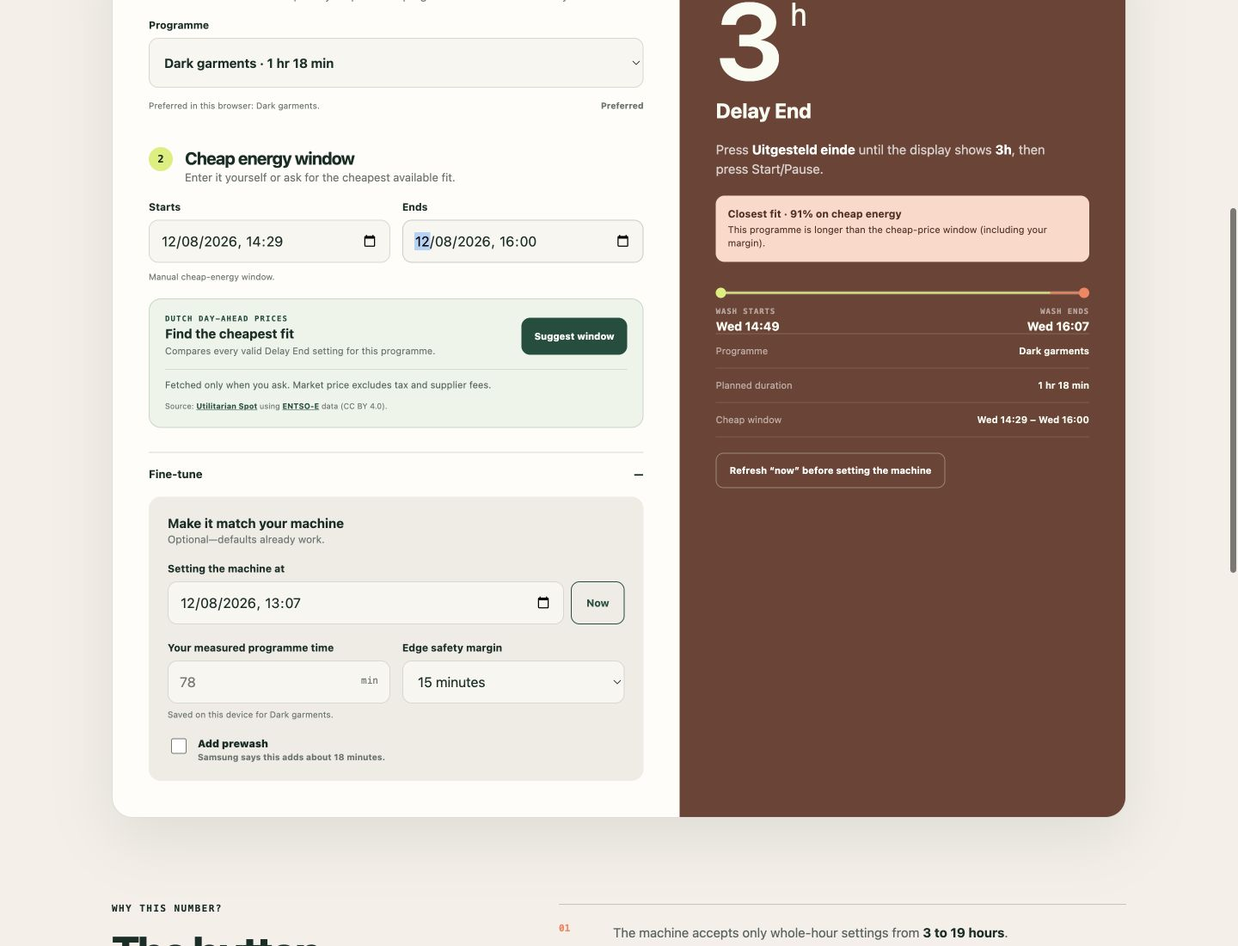
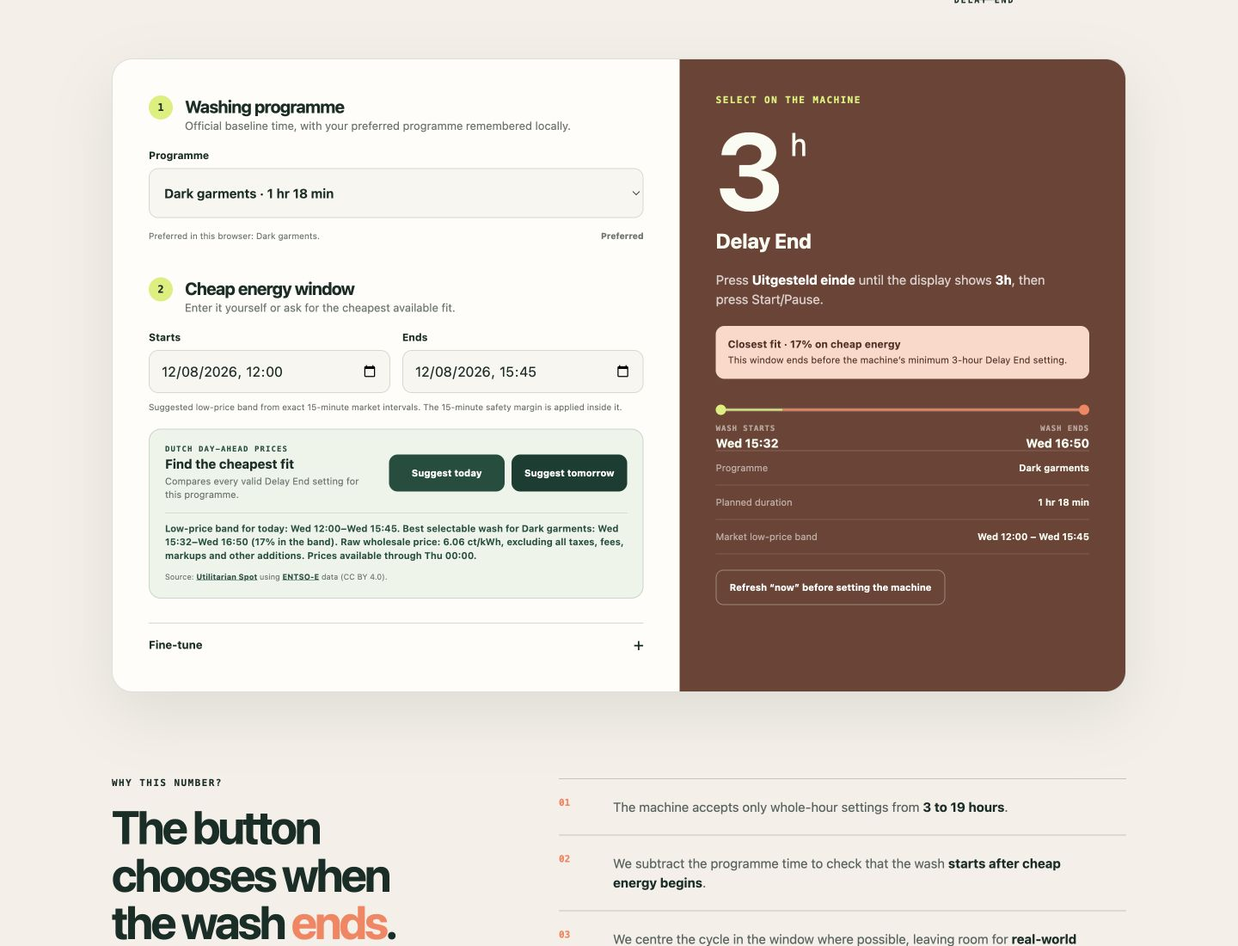
Improve day-ahead laundry suggestions

diff --git a/html/i18n.js b/html/i18n.js
@@ -4,39 +4,39 @@
   const translations = {
     en: {
       metaDescription: "Calculate the Delay End setting for a Samsung WF702Y4BKWQ/EN washing machine.",
-      homeLabel: "Laundry Window home", languageLabel: "Language", englishLabel: "English (UK)", dutchLabel: "Dutch",
+      homeLabel: "Laundry Window home", languageLabel: "Language", englishLabel: "English (UK)", dutchLabel: "Dutch", marketDayLabel: "Choose whether to optimise for today or tomorrow",
       heroEyebrow: "CHEAP-ENERGY WASH PLANNER", heroTitle: "Set the delay.<br>Skip the maths.", heroIntro: "Tell me when electricity is cheap and what you’re washing. I’ll tell you exactly what to select on <strong>Delay End</strong>.", delayEnd: "DELAY END",
       plannerLabel: "Delay End calculator", programHeading: "Washing programme", programIntro: "Official baseline time, with your preferred programme remembered locally.", programLabel: "Programme",
-      windowHeading: "Cheap energy window", windowIntro: "Enter it yourself or ask for the cheapest available fit.", starts: "Starts", ends: "Ends", manualWindow: "Manual cheap-energy window.", marketEnvelope: "Planning envelope: recommended wash plus {margin} minutes of safety margin on each side. Prices are evaluated in exact 15-minute market intervals.",
-      marketEyebrow: "DUTCH DAY-AHEAD PRICES", marketHeading: "Find the cheapest fit", marketIntro: "Compares every valid Delay End setting for this programme.", suggest: "Suggest window", checking: "Checking prices…", marketDefault: "Fetched only when you ask. Market price excludes tax and supplier fees.", marketSource: "Source: <a href=\"https://spot.utilitarian.io/developer/\" rel=\"noreferrer\">Utilitarian Spot</a> using <a href=\"https://transparency.entsoe.eu/\" rel=\"noreferrer\">ENTSO-E</a> data (CC BY 4.0).",
+      windowHeading: "Cheap energy window", windowIntro: "Enter it yourself or ask for the cheapest available fit.", starts: "Starts", ends: "Ends", manualWindow: "Manual cheap-energy window.", marketWindow: "Suggested low-price band from exact 15-minute market intervals. The {margin}-minute safety margin is applied inside it.",
+      marketEyebrow: "DUTCH DAY-AHEAD PRICES", marketHeading: "Find the cheapest fit", marketIntro: "Compares every valid Delay End setting for this programme.", suggestToday: "Suggest today", suggestTomorrow: "Suggest tomorrow", checking: "Checking…", marketDefault: "The shown price is the raw wholesale market price, excluding all taxes, fees, supplier markups and other additions. Fetched only when you ask.", marketSource: "Source: <a href=\"https://spot.utilitarian.io/developer/\" rel=\"noreferrer\">Utilitarian Spot</a> using <a href=\"https://transparency.entsoe.eu/\" rel=\"noreferrer\">ENTSO-E</a> data (CC BY 4.0).",
       fineTune: "Fine-tune", tuneHeading: "Make it match your machine", tuneIntro: "Optional—defaults already work.", settingAt: "Setting the machine at", now: "Now", measured: "Your measured programme time", savedDevice: "Saved on this device.", margin: "Edge safety margin", noMargin: "No margin", minutes: "{count} minutes", addPrewash: "Add prewash", prewashNote: "Samsung says this adds about 18 minutes.",
       selectMachine: "SELECT ON THE MACHINE", readyHeading: "Ready when you are", readyText: "Choose a valid window to see the Delay End setting.",
       whyEyebrow: "WHY THIS NUMBER?", whyTitle: "The button chooses when the wash <em>ends</em>.", why1: "The machine accepts only whole-hour settings from <strong>3 to 19 hours</strong>.", why2: "We subtract the programme time to check that the wash <strong>starts after cheap energy begins</strong>.", why3: "We centre the cycle in the window where possible, leaving room for <strong>real-world timing drift</strong>.",
       reference: "Official programme-time reference", manualPage: "Samsung manual · page 37", referenceText: "Quick wash can be selected at 15, 20, 30, 40, 50 or 60 minutes. Actual times can vary with water pressure and temperature, load, fabric and selected options. Intensive wash extends every cycle; use the measured-time field when you use it. <a class=\"source-link\" href=\"https://www.samsung.com/nl/support/model.WF702Y4BKWQ_EN/\" rel=\"noreferrer\">Official Samsung support page</a>.",
-      compatibility: "COMPATIBILITY", compatibilityTitle: "Built for one Samsung family.<br><em>More machines later.</em>", compatibilityIntro: "The timings and Delay End rules currently come from one shared Samsung manual. No other brand is assumed compatible yet.", verified: "PHYSICALLY VERIFIED", exactMachine: "The exact machine used to create and check this calculator.", sameManual: "SAME SAMSUNG MANUAL", familyText: "Y4BK and B4BK families are covered by the same official programme table. Regional suffixes may differ.", future: "FUTURE", otherModels: "Other brands &amp; models", futureText: "The programme data is isolated in the app, ready for model selection and additional verified manuals later.", footerText: "Made for one very specific Samsung—and one less piece of mental arithmetic.",
+      compatibility: "COMPATIBILITY", compatibilityTitle: "Built for one Samsung family.<br><em>More machines later.</em>", compatibilityIntro: "The timings and Delay End rules currently come from one shared Samsung manual. No other brand is assumed compatible yet.", verified: "PHYSICALLY VERIFIED", exactMachine: "The exact machine used to create and check this calculator.", sameManual: "SAME SAMSUNG MANUAL", familyText: "Y4BK and B4BK families are covered by the same official programme table. Regional suffixes may differ.", future: "FUTURE", otherModels: "Other brands &amp; models", futureText: "The programme data is isolated in the app, ready for model selection and additional verified manuals later.", footerText: "Made for one very specific Samsung—and one less piece of mental arithmetic.", githubRepo: "View source on GitHub",
       dialGroup: "Dial programmes", quickGroup: "Quick wash button", cotton: "Cotton", synthetics: "Synthetics", jeans: "Jeans", bedding: "Bedding", dark: "Dark garments", daily: "Daily wash", drum: "Eco drum clean", baby: "Baby care", sports: "Outdoor care", hand: "Hand wash", wool: "Wool", quick: "Quick wash · {minutes} min",
       durationMin: "{minutes} min", durationHour: "{hours} hr", durationHoursMinutes: "{hours} hr {minutes} min", savedFor: "Saved on this device for {program}.", preferredInBrowser: "Preferred in this browser: {program}.", preferred: "Preferred", makePreferred: "Make selected preferred",
-      settingsChanged: "The settings changed. Ask again to recalculate the cheapest fit.", invalidPlanning: "Choose a valid machine-setting time first.", fetching: "Fetching the latest published Dutch day-ahead prices…", noMarketFit: "No complete wash fits the currently published prices and the machine’s 3–19 hour range. If tomorrow is not available yet, try again after 13:00.", marketSuccess: "Best published fit for {program}: {start}–{end}, averaging {price} ct/kWh. Prices available through {available}.", marketError: "Live prices could not be loaded. Manual window entry still works; please try the suggestion again later.",
+      settingsChanged: "The settings changed. Ask again to recalculate the cheapest fit.", invalidPlanning: "Choose a valid machine-setting time first.", fetching: "Fetching the latest published Dutch day-ahead prices…", noDayFit: "No complete wash fits {day} within the published prices and the machine’s 3–19 hour range.", tomorrowUnavailable: "Tomorrow’s prices are not available yet. Try again after publication, usually around 13:00.", marketSuccess: "Low-price band for {day}: {lowStart}–{lowEnd}. Best selectable wash for {program}: {start}–{end} ({percent}% in the band). Raw wholesale price: {price} ct/kWh, excluding all taxes, fees, markups and other additions. Prices available through {available}.", marketError: "Live prices could not be loaded. Manual window entry still works; please try the suggestion again later.", today: "today", tomorrow: "tomorrow",
       invalidDate: "Choose a valid date and time.", invalidWindow: "The cheap-price end must be after its start.", noWholeFit: "No whole-hour Delay End setting keeps this complete cycle inside the window.", tooLong: "This programme is longer than the cheap-price window (including your margin).", tooEarly: "This window ends before the machine’s minimum 3-hour Delay End setting.", tooLate: "This window starts beyond the machine’s 19-hour Delay End limit.", safetyMessage: "The complete wash fits inside the displayed window, but the requested {margin}-minute safety margin is short by {used} minutes.", safetyTitle: "Fits window · safety margin short by {shortfall} min", closestTitle: "Closest fit · {percent}% on cheap energy",
-      checkWindow: "Check the window", instruction: "Press <strong>Uitgesteld einde</strong> until the display shows <strong id=\"delay-inline\"></strong>, then press Start/Pause.", expectedTiming: "Expected wash timing", washStarts: "WASH STARTS", washEnds: "WASH ENDS", plannedDuration: "Planned duration", windowSummary: "Cheap window", envelopeSummary: "Planning envelope", refresh: "Refresh “now” before setting the machine"
+      checkWindow: "Check the window", instruction: "Press <strong>Uitgesteld einde</strong> until the display shows <strong id=\"delay-inline\"></strong>, then press Start/Pause.", expectedTiming: "Expected wash timing", washStarts: "WASH STARTS", washEnds: "WASH ENDS", plannedDuration: "Planned duration", windowSummary: "Cheap window", marketBandSummary: "Market low-price band", refresh: "Refresh “now” before setting the machine"
     },
     nl: {
       metaDescription: "Bereken de instelling Uitgesteld einde voor een Samsung WF702Y4BKWQ/EN-wasmachine.",
-      homeLabel: "Laundry Window startpagina", languageLabel: "Taal", englishLabel: "Engels (VK)", dutchLabel: "Nederlands",
+      homeLabel: "Laundry Window startpagina", languageLabel: "Taal", englishLabel: "Engels (VK)", dutchLabel: "Nederlands", marketDayLabel: "Kies of je voor vandaag of morgen wilt optimaliseren",
       heroEyebrow: "WASPLANNER VOOR GOEDKOPE STROOM", heroTitle: "Stel de tijd in.<br>Sla het rekenen over.", heroIntro: "Vertel wanneer stroom goedkoop is en welk programma je gebruikt. Ik vertel precies wat je bij <strong>Uitgesteld einde</strong> moet instellen.", delayEnd: "UITGESTELD EINDE",
       plannerLabel: "Calculator voor Uitgesteld einde", programHeading: "Wasprogramma", programIntro: "Officiële basistijd, met je voorkeursprogramma lokaal onthouden.", programLabel: "Programma",
-      windowHeading: "Goedkope-stroomvenster", windowIntro: "Vul het zelf in of laat het goedkoopste passende moment zoeken.", starts: "Begint", ends: "Eindigt", manualWindow: "Handmatig goedkoop stroomvenster.", marketEnvelope: "Planningsmarge: aanbevolen was plus {margin} minuten veiligheidsmarge aan beide kanten. Prijzen worden per exact marktkwartier berekend.",
-      marketEyebrow: "NEDERLANDSE DAY-AHEADPRIJZEN", marketHeading: "Vind het goedkoopste moment", marketIntro: "Vergelijkt elke geldige instelling voor Uitgesteld einde voor dit programma.", suggest: "Stel venster voor", checking: "Prijzen controleren…", marketDefault: "Alleen opgehaald wanneer je erom vraagt. Marktprijs is exclusief belasting en leverancierskosten.", marketSource: "Bron: <a href=\"https://spot.utilitarian.io/developer/\" rel=\"noreferrer\">Utilitarian Spot</a> met gegevens van <a href=\"https://transparency.entsoe.eu/\" rel=\"noreferrer\">ENTSO-E</a> (CC BY 4.0).",
+      windowHeading: "Goedkope-stroomvenster", windowIntro: "Vul het zelf in of laat het goedkoopste passende moment zoeken.", starts: "Begint", ends: "Eindigt", manualWindow: "Handmatig goedkoop stroomvenster.", marketWindow: "Voorgestelde lage-prijsperiode uit exacte marktkwartieren. De veiligheidsmarge van {margin} minuten wordt daarbinnen toegepast.",
+      marketEyebrow: "NEDERLANDSE DAY-AHEADPRIJZEN", marketHeading: "Vind het goedkoopste moment", marketIntro: "Vergelijkt elke geldige instelling voor Uitgesteld einde voor dit programma.", suggestToday: "Vandaag voorstellen", suggestTomorrow: "Morgen voorstellen", checking: "Controleren…", marketDefault: "De getoonde prijs is de kale beursprijs, exclusief alle belastingen, kosten, leveranciersopslagen en andere toevoegingen. Alleen opgehaald wanneer je erom vraagt.", marketSource: "Bron: <a href=\"https://spot.utilitarian.io/developer/\" rel=\"noreferrer\">Utilitarian Spot</a> met gegevens van <a href=\"https://transparency.entsoe.eu/\" rel=\"noreferrer\">ENTSO-E</a> (CC BY 4.0).",
       fineTune: "Fijn afstellen", tuneHeading: "Pas het aan jouw machine aan", tuneIntro: "Optioneel—de standaardwaarden werken al.", settingAt: "Machine instellen om", now: "Nu", measured: "Jouw gemeten programmaduur", savedDevice: "Op dit apparaat opgeslagen.", margin: "Veiligheidsmarge aan de rand", noMargin: "Geen marge", minutes: "{count} minuten", addPrewash: "Voorwas toevoegen", prewashNote: "Volgens Samsung duurt dit ongeveer 18 minuten extra.",
       selectMachine: "KIES OP DE MACHINE", readyHeading: "Klaar wanneer jij dat bent", readyText: "Kies een geldig venster om de instelling te zien.",
       whyEyebrow: "WAAROM DIT GETAL?", whyTitle: "De knop bepaalt wanneer de was <em>eindigt</em>.", why1: "De machine accepteert alleen hele uren van <strong>3 tot en met 19 uur</strong>.", why2: "We trekken de programmaduur af om te controleren dat de was <strong>na het begin van de goedkope stroom start</strong>.", why3: "Waar mogelijk centreren we de was in het venster, met ruimte voor <strong>afwijkingen in de werkelijke duur</strong>.",
       reference: "Officieel overzicht van programmatijden", manualPage: "Samsung-handleiding · pagina 37", referenceText: "Kort programma kan worden ingesteld op 15, 20, 30, 40, 50 of 60 minuten. Werkelijke tijden kunnen variëren door waterdruk en -temperatuur, belading, textiel en gekozen opties. Intensief wassen verlengt elke cyclus; gebruik dan het veld voor gemeten tijd. <a class=\"source-link\" href=\"https://www.samsung.com/nl/support/model.WF702Y4BKWQ_EN/\" rel=\"noreferrer\">Officiële Samsung-ondersteuningspagina</a>.",
-      compatibility: "COMPATIBILITEIT", compatibilityTitle: "Gebouwd voor één Samsung-familie.<br><em>Later meer machines.</em>", compatibilityIntro: "De tijden en regels voor Uitgesteld einde komen nu uit één gedeelde Samsung-handleiding. Andere merken worden nog niet als compatibel beschouwd.", verified: "FYSIEK GECONTROLEERD", exactMachine: "De exacte machine waarmee deze calculator is gemaakt en gecontroleerd.", sameManual: "DEZELFDE SAMSUNG-HANDLEIDING", familyText: "De Y4BK- en B4BK-families staan in dezelfde officiële programmatabel. Regionale achtervoegsels kunnen verschillen.", future: "TOEKOMST", otherModels: "Andere merken en modellen", futureText: "De programmagegevens staan apart in de app, klaar voor modelkeuze en later geverifieerde handleidingen.", footerText: "Gemaakt voor één heel specifieke Samsung—en één rekensom minder in je hoofd.",
+      compatibility: "COMPATIBILITEIT", compatibilityTitle: "Gebouwd voor één Samsung-familie.<br><em>Later meer machines.</em>", compatibilityIntro: "De tijden en regels voor Uitgesteld einde komen nu uit één gedeelde Samsung-handleiding. Andere merken worden nog niet als compatibel beschouwd.", verified: "FYSIEK GECONTROLEERD", exactMachine: "De exacte machine waarmee deze calculator is gemaakt en gecontroleerd.", sameManual: "DEZELFDE SAMSUNG-HANDLEIDING", familyText: "De Y4BK- en B4BK-families staan in dezelfde officiële programmatabel. Regionale achtervoegsels kunnen verschillen.", future: "TOEKOMST", otherModels: "Andere merken en modellen", futureText: "De programmagegevens staan apart in de app, klaar voor modelkeuze en later geverifieerde handleidingen.", footerText: "Gemaakt voor één heel specifieke Samsung—en één rekensom minder in je hoofd.", githubRepo: "Bekijk de broncode op GitHub",
       dialGroup: "Draaiknopprogramma's", quickGroup: "Knop Kort programma", cotton: "Katoen", synthetics: "Synthetisch", jeans: "Jeans", bedding: "Beddengoed", dark: "Donkere kleding", daily: "Dagelijkse was", drum: "Eco trommelreiniging", baby: "Babykleding", sports: "Outdoorkleding", hand: "Handwas", wool: "Wol", quick: "Kort programma · {minutes} min",
       durationMin: "{minutes} min", durationHour: "{hours} uur", durationHoursMinutes: "{hours} uur {minutes} min", savedFor: "Op dit apparaat opgeslagen voor {program}.", preferredInBrowser: "Voorkeur in deze browser: {program}.", preferred: "Voorkeur", makePreferred: "Maak selectie voorkeur",
-      settingsChanged: "De instellingen zijn gewijzigd. Laat het goedkoopste moment opnieuw berekenen.", invalidPlanning: "Kies eerst een geldige tijd waarop je de machine instelt.", fetching: "De nieuwste Nederlandse day-aheadprijzen ophalen…", noMarketFit: "Geen volledige was past binnen de gepubliceerde prijzen en het bereik van 3–19 uur. Als morgen nog niet beschikbaar is, probeer het na 13:00 opnieuw.", marketSuccess: "Beste gepubliceerde moment voor {program}: {start}–{end}, gemiddeld {price} ct/kWh. Prijzen beschikbaar tot {available}.", marketError: "Live prijzen konden niet worden geladen. Handmatig invoeren blijft werken; probeer het later opnieuw.",
+      settingsChanged: "De instellingen zijn gewijzigd. Laat het goedkoopste moment opnieuw berekenen.", invalidPlanning: "Kies eerst een geldige tijd waarop je de machine instelt.", fetching: "De nieuwste Nederlandse day-aheadprijzen ophalen…", noDayFit: "Geen volledige was past {day} binnen de gepubliceerde prijzen en het bereik van 3–19 uur.", tomorrowUnavailable: "De prijzen voor morgen zijn nog niet beschikbaar. Probeer het na publicatie opnieuw, meestal rond 13:00.", marketSuccess: "De lage-prijsperiode voor {day} is {lowStart}–{lowEnd}. Beste instelbare was met {program}: {start}–{end} ({percent}% binnen de periode). Kale beursprijs: {price} ct/kWh, exclusief alle belastingen, kosten, opslagen en andere toevoegingen. Prijzen beschikbaar tot {available}.", marketError: "Live prijzen konden niet worden geladen. Handmatig invoeren blijft werken; probeer het later opnieuw.", today: "vandaag", tomorrow: "morgen",
       invalidDate: "Kies een geldige datum en tijd.", invalidWindow: "Het einde van het goedkope venster moet na het begin liggen.", noWholeFit: "Geen instelling in hele uren houdt deze volledige was binnen het venster.", tooLong: "Dit programma duurt langer dan het goedkope venster (inclusief marge).", tooEarly: "Dit venster eindigt vóór de minimale instelling van 3 uur.", tooLate: "Dit venster begint na de maximale instelling van 19 uur.", safetyMessage: "De volledige was past in het getoonde venster, maar de gevraagde veiligheidsmarge van {margin} minuten komt {used} minuten tekort.", safetyTitle: "Past in venster · veiligheidsmarge {shortfall} min te kort", closestTitle: "Beste benadering · {percent}% op goedkope stroom",
-      checkWindow: "Controleer het venster", instruction: "Druk op <strong>Uitgesteld einde</strong> tot het display <strong id=\"delay-inline\"></strong> toont en druk daarna op Start/Pauze.", expectedTiming: "Verwachte wastijden", washStarts: "WAS START", washEnds: "WAS EINDIGT", plannedDuration: "Geplande duur", windowSummary: "Goedkoop venster", envelopeSummary: "Planningsmarge", refresh: "Vernieuw ‘nu’ voordat je de machine instelt"
+      checkWindow: "Controleer het venster", instruction: "Druk op <strong>Uitgesteld einde</strong> tot het display <strong id=\"delay-inline\"></strong> toont en druk daarna op Start/Pauze.", expectedTiming: "Verwachte wastijden", washStarts: "WAS START", washEnds: "WAS EINDIGT", plannedDuration: "Geplande duur", windowSummary: "Goedkoop venster", marketBandSummary: "Lage-prijsperiode", refresh: "Vernieuw ‘nu’ voordat je de machine instelt"
     }
   };
 

diff --git a/html/app.js b/html/app.js
@@ -22,7 +22,7 @@
   const form = $("#planner-form");
   const programme = $("#programme");
   const measured = $("#measured-time");
-  const marketButton = $("#suggest-market-window");
+  const marketButtons = Array.from(document.querySelectorAll("[data-suggest-day]"));
   const marketPrices = window.LaundryMarketPrices;
   const i18n = window.LaundryI18n;
   const t = (key, values) => i18n.t(key, values);
@@ -30,6 +30,7 @@
   let preferredProgramId = "dark";
   let suggestionActive = false;
   let lastMarketResult = null;
+  let lastSuggestionDayOffset = null;
 
   try { overrides = JSON.parse(localStorage.getItem("washer-program-overrides") || "{}"); } catch (_) { overrides = {}; }
   try {
@@ -146,13 +147,14 @@
     if (!suggestionActive) return;
     suggestionActive = false;
     lastMarketResult = null;
+    lastSuggestionDayOffset = null;
     updateWindowContext();
     setMarketStatus(t("settingsChanged"));
   }
 
   function updateWindowContext() {
     const margin = Number($("#safety-margin").value);
-    $("#window-context").textContent = suggestionActive ? t("marketEnvelope", { margin }) : t("manualWindow");
+    $("#window-context").textContent = suggestionActive ? t("marketWindow", { margin }) : t("manualWindow");
   }
 
   function marketPriceText(pricePerMwh) {
@@ -161,49 +163,58 @@
 
   function renderMarketSuccess() {
     if (!lastMarketResult) return;
-    const { best, availableUntil } = lastMarketResult;
-    setMarketStatus(t("marketSuccess", { program: programName(currentProgram()), start: momentText(new Date(best.start)), end: momentText(new Date(best.end)), price: marketPriceText(best.average), available: momentText(availableUntil) }), "success");
+    const { best, cheapWindow, availableUntil, dayOffset } = lastMarketResult;
+    const overlapMinutes = overlap(best.start, best.end, cheapWindow.start, cheapWindow.end);
+    const percent = Math.round(overlapMinutes / cycleMinutes() * 100);
+    setMarketStatus(t("marketSuccess", { day: t(dayOffset ? "tomorrow" : "today"), program: programName(currentProgram()), start: momentText(new Date(best.start)), end: momentText(new Date(best.end)), lowStart: momentText(new Date(cheapWindow.start)), lowEnd: momentText(new Date(cheapWindow.end)), percent, price: marketPriceText(best.average), available: momentText(availableUntil) }), "success");
   }
 
-  async function suggestMarketWindow() {
+  function updateMarketButtons(activeButton = null) {
+    marketButtons.forEach((button) => {
+      button.textContent = button === activeButton ? t("checking") : t(Number(button.dataset.suggestDay) ? "suggestTomorrow" : "suggestToday");
+    });
+  }
+
+  async function suggestMarketWindow(dayOffset = 0) {
     const planning = new Date($("#planning-time").value);
     if (Number.isNaN(planning.getTime())) {
       setMarketStatus(t("invalidPlanning"), "error");
       return;
     }
 
-    marketButton.disabled = true;
-    marketButton.textContent = t("checking");
+    const activeButton = marketButtons.find((button) => Number(button.dataset.suggestDay) === dayOffset);
+    marketButtons.forEach((button) => { button.disabled = true; });
+    updateMarketButtons(activeButton);
     setMarketStatus(t("fetching"));
 
     try {
       const response = await fetch(marketPrices.API_URL);
       if (!response.ok) throw new Error(`Price service returned ${response.status}`);
       const points = await response.json();
-      const best = marketPrices.findCheapestSchedule(points, planning, cycleMinutes());
+      const best = marketPrices.findCheapestSchedule(points, planning, cycleMinutes(), dayOffset);
+      const cheapWindow = marketPrices.findLowPriceWindow(points, planning, dayOffset);
       const intervals = marketPrices.normalisePricePoints(points);
       if (!intervals.length) throw new Error("The price feed returned no usable values");
 
-      if (!best) {
-        setMarketStatus(t("noMarketFit"), "error");
+      if (!best || !cheapWindow) {
+        const unavailable = dayOffset === 1 && !marketPrices.hasPricesForDay(points, planning, dayOffset);
+        setMarketStatus(t(unavailable ? "tomorrowUnavailable" : "noDayFit", { day: t(dayOffset ? "tomorrow" : "today") }), "error");
         return;
       }
 
-      const margin = Number($("#safety-margin").value);
-      const windowStart = new Date(best.start - margin * minute);
-      const windowEnd = new Date(best.end + margin * minute);
-      $("#cheap-start").value = inputValue(windowStart);
-      $("#cheap-end").value = inputValue(windowEnd);
+      $("#cheap-start").value = inputValue(new Date(cheapWindow.start));
+      $("#cheap-end").value = inputValue(new Date(cheapWindow.end));
       suggestionActive = true;
-      lastMarketResult = { best, availableUntil: new Date(intervals[intervals.length - 1].end) };
+      lastSuggestionDayOffset = dayOffset;
+      lastMarketResult = { best, cheapWindow, dayOffset, availableUntil: new Date(intervals[intervals.length - 1].end) };
       updateWindowContext();
       calculate();
       renderMarketSuccess();
     } catch (_) {
       setMarketStatus(t("marketError"), "error");
     } finally {
-      marketButton.disabled = false;
-      marketButton.textContent = t("suggest");
+      marketButtons.forEach((button) => { button.disabled = false; });
+      updateMarketButtons();
     }
   }
 
@@ -231,21 +242,27 @@
     const protectedStart = new Date(windowStart.getTime() + margin * minute);
     const protectedEnd = new Date(windowEnd.getTime() - margin * minute);
     const fitting = schedules.filter((item) => item.start >= protectedStart && item.end <= protectedEnd);
+    const marketSchedule = suggestionActive && lastMarketResult ? schedules.find((item) => item.delayHours === lastMarketResult.best.delayHours) : null;
 
-    if (fitting.length) {
+    if (marketSchedule && fitting.includes(marketSchedule)) {
+      return renderSchedule(marketSchedule, selected, plannedMinutes, windowStart, windowEnd, true);
+    }
+
+    if (!marketSchedule && fitting.length) {
       const centre = (windowStart.getTime() + windowEnd.getTime()) / 2;
       fitting.sort((a, b) => Math.abs((a.start.getTime() + a.end.getTime()) / 2 - centre) - Math.abs((b.start.getTime() + b.end.getTime()) / 2 - centre));
       return renderSchedule(fitting[0], selected, plannedMinutes, windowStart, windowEnd, true);
     }
 
     schedules.sort((a, b) => b.overlapMinutes - a.overlapMinutes);
+    const closestSchedule = marketSchedule || schedules[0];
     let message = t("noWholeFit");
     let warningTitle = "";
     const windowMinutes = (windowEnd - windowStart) / minute;
-    const percent = Math.round(schedules[0].overlapMinutes / plannedMinutes * 100);
+    const percent = Math.round(closestSchedule.overlapMinutes / plannedMinutes * 100);
     if (percent === 100 && margin > 0) {
-      const startBuffer = Math.max(0, Math.round((schedules[0].start - windowStart) / minute));
-      const endBuffer = Math.max(0, Math.round((windowEnd - schedules[0].end) / minute));
+      const startBuffer = Math.max(0, Math.round((closestSchedule.start - windowStart) / minute));
+      const endBuffer = Math.max(0, Math.round((windowEnd - closestSchedule.end) / minute));
       const availableMargin = Math.min(startBuffer, endBuffer);
       const shortfall = Math.max(0, margin - availableMargin);
       message = t("safetyMessage", { used: shortfall, margin });
@@ -253,7 +270,7 @@
     } else if (plannedMinutes + margin * 2 > windowMinutes) message = t("tooLong");
     else if (windowEnd.getTime() < planning.getTime() + 3 * hour) message = t("tooEarly");
     else if (windowStart.getTime() > planning.getTime() + 19 * hour) message = t("tooLate");
-    renderSchedule(schedules[0], selected, plannedMinutes, windowStart, windowEnd, false, message, percent, warningTitle);
+    renderSchedule(closestSchedule, selected, plannedMinutes, windowStart, windowEnd, false, message, percent, warningTitle);
   }
 
   function renderError(message) {
@@ -270,7 +287,7 @@
       <p class="instruction">${t("instruction")}</p>
       <div class="warning-box" id="warning-box"${exact ? " hidden" : ""}><strong id="warning-title"></strong><span id="warning-message"></span></div>
       <div class="timeline" aria-label="${t("expectedTiming")}"><div class="timeline-track" id="timeline-track"><span></span></div><div class="timeline-labels"><span><small>${t("washStarts")}</small><strong id="wash-start"></strong></span><span><small>${t("washEnds")}</small><strong id="wash-end"></strong></span></div></div>
-      <dl class="summary-list"><div><dt>${t("programLabel")}</dt><dd id="summary-programme"></dd></div><div><dt>${t("plannedDuration")}</dt><dd id="summary-duration"></dd></div><div><dt>${t(suggestionActive ? "envelopeSummary" : "windowSummary")}</dt><dd id="summary-window"></dd></div></dl>
+      <dl class="summary-list"><div><dt>${t("programLabel")}</dt><dd id="summary-programme"></dd></div><div><dt>${t("plannedDuration")}</dt><dd id="summary-duration"></dd></div><div><dt>${t(suggestionActive ? "marketBandSummary" : "windowSummary")}</dt><dd id="summary-window"></dd></div></dl>
       <button class="refresh-button" id="refresh-result" type="button">${t("refresh")}</button>`;
     $("#delay-number").textContent = schedule.delayHours;
     $("#delay-inline").textContent = `${schedule.delayHours}h`;
@@ -294,8 +311,9 @@
 
   async function useNow() {
     const shouldReoptimise = suggestionActive;
+    const dayOffset = lastSuggestionDayOffset;
     $("#planning-time").value = inputValue(new Date());
-    if (shouldReoptimise) await suggestMarketWindow(); else calculate();
+    if (shouldReoptimise) await suggestMarketWindow(dayOffset); else calculate();
   }
 
   fillProgrammes();
@@ -315,6 +333,7 @@
     updatePreferenceControls();
     updateSafetyOptions();
     updateWindowContext();
+    updateMarketButtons();
     if (suggestionActive) renderMarketSuccess(); else setMarketStatus(t("marketDefault"));
     calculate();
   });
@@ -327,7 +346,7 @@
   });
   $("#use-now").addEventListener("click", useNow);
   $("#set-preferred-programme").addEventListener("click", savePreferredProgram);
-  marketButton.addEventListener("click", suggestMarketWindow);
+  marketButtons.forEach((button) => button.addEventListener("click", () => suggestMarketWindow(Number(button.dataset.suggestDay))));
   programme.addEventListener("change", () => { invalidateSuggestion(); updateMeasuredField(); updatePreferenceControls(); calculate(); });
   measured.addEventListener("input", () => {
     invalidateSuggestion();

diff --git a/html/market-prices.js b/html/market-prices.js
@@ -37,16 +37,58 @@
     return weightedPrice / duration;
   }
 
-  function findCheapestSchedule(rawPoints, planningDate, cycleMinutes) {
+  function localDayBounds(referenceDate, dayOffset) {
+    const start = new Date(referenceDate);
+    start.setHours(0, 0, 0, 0);
+    start.setDate(start.getDate() + dayOffset);
+    const end = new Date(start);
+    end.setDate(end.getDate() + 1);
+    return { start: start.getTime(), end: end.getTime() };
+  }
+
+  function hasPricesForDay(rawPoints, planningDate, dayOffset) {
+    const intervals = normalisePricePoints(rawPoints);
+    const bounds = localDayBounds(planningDate, dayOffset);
+    return intervals.some((interval) => interval.start < bounds.end && interval.end > bounds.start);
+  }
+
+  function findLowPriceWindow(rawPoints, planningDate, dayOffset) {
+    const bounds = localDayBounds(planningDate, dayOffset);
+    const intervals = normalisePricePoints(rawPoints)
+      .filter((interval) => interval.start < bounds.end && interval.end > bounds.start)
+      .map((interval) => ({ ...interval, start: Math.max(interval.start, bounds.start), end: Math.min(interval.end, bounds.end) }));
+    if (!intervals.length) return null;
+
+    const minimum = Math.min(...intervals.map((interval) => interval.value));
+    const threshold = Math.max(5, minimum + 10);
+    const groups = [];
+    intervals.filter((interval) => interval.value <= threshold).forEach((interval) => {
+      const previous = groups[groups.length - 1];
+      if (previous && interval.start <= previous.end + 1) {
+        previous.end = Math.max(previous.end, interval.end);
+        previous.weighted += interval.value * (interval.end - interval.start);
+        previous.duration += interval.end - interval.start;
+      } else {
+        groups.push({ start: interval.start, end: interval.end, weighted: interval.value * (interval.end - interval.start), duration: interval.end - interval.start });
+      }
+    });
+
+    groups.sort((a, b) => b.duration - a.duration || a.weighted / a.duration - b.weighted / b.duration || a.start - b.start);
+    const best = groups[0];
+    return best ? { start: best.start, end: best.end, average: best.weighted / best.duration, threshold } : null;
+  }
+
+  function findCheapestSchedule(rawPoints, planningDate, cycleMinutes, dayOffset = null) {
     const planning = new Date(planningDate).getTime();
     if (!Number.isFinite(planning) || !Number.isFinite(cycleMinutes) || cycleMinutes <= 0) return null;
 
     const intervals = normalisePricePoints(rawPoints);
+    const bounds = dayOffset === null ? null : localDayBounds(planningDate, dayOffset);
     const candidates = Array.from({ length: 17 }, (_, index) => index + 3).map((delayHours) => {
       const end = planning + delayHours * hour;
       const start = end - cycleMinutes * minute;
       return { delayHours, start, end, average: averagePrice(start, end, intervals) };
-    }).filter((candidate) => candidate.average !== null);
+    }).filter((candidate) => candidate.average !== null && (!bounds || (candidate.start >= bounds.start && candidate.end <= bounds.end)));
 
     candidates.sort((a, b) => a.average - b.average || a.delayHours - b.delayHours);
     return candidates[0] || null;
@@ -62,5 +104,5 @@
   }
 
   const scope = typeof window === "undefined" ? globalThis : window;
-  scope.LaundryMarketPrices = { API_URL, findCheapestSchedule, normalisePricePoints, timelineCoverage };
+  scope.LaundryMarketPrices = { API_URL, findCheapestSchedule, findLowPriceWindow, hasPricesForDay, normalisePricePoints, timelineCoverage };
 })();

diff --git a/html/styles.css b/html/styles.css
@@ -72,6 +72,7 @@ input:focus, select:focus { border-color: var(--green); box-shadow: 0 0 0 3px rg
 .market-suggestion button { min-height: 43px; padding: 0 15px; border: 0; border-radius: 10px; color: white; background: var(--green); font-size: 11px; font-weight: 750; }
 .market-suggestion button:hover { background: #0f3e31; }
 .market-suggestion button:disabled { cursor: wait; opacity: .65; }
+.market-actions { min-width: 226px; display: grid; grid-template-columns: 1fr 1fr; gap: 8px; }
 .market-status { grid-column: 1 / -1; margin: 3px 0 0; padding-top: 10px; border-top: 1px solid rgba(23,78,62,.14); color: #53655e; font-size: 11px; line-height: 1.45; }
 .market-status[data-state="success"] { color: var(--green); font-weight: 650; }
 .market-status[data-state="error"] { color: #8b3c29; }
@@ -166,6 +167,7 @@ footer { width: min(1180px, calc(100% - 40px)); margin: 0 auto; padding: 28px 0 
 .footer-copy { display: grid; gap: 7px; }
 .footer-copy span { font-weight: 750; }
 .footer-copy p { margin: 0; color: var(--muted); line-height: 1.5; }
+.footer-repo { width: max-content; color: var(--green); font-weight: 700; text-underline-offset: 3px; }
 .footer-support { min-height: 60px; flex: 0 0 auto; display: flex; align-items: center; }
 
 @media (max-width: 900px) {
@@ -180,7 +182,7 @@ footer { width: min(1180px, calc(100% - 40px)); margin: 0 auto; padding: 28px 0 
   .hero { min-height: auto; grid-template-columns: 1fr; padding: 46px 0; }.hero h1 { font-size: 58px; }.intro { font-size: 16px; margin-top: 24px; }.dial-art { display: none; }
   .planner { border-radius: 17px; margin-bottom: 70px; }.input-panel, .result-panel { padding: 27px 22px; }.field-grid { grid-template-columns: 1fr; }.programme-heading { margin-top: 30px; }
   .programme-preference { align-items: flex-start; }
-  .market-suggestion { grid-template-columns: 1fr; }.market-suggestion button { width: 100%; }.market-status, .market-suggestion > small { grid-column: 1; }
+  .market-suggestion { grid-template-columns: 1fr; }.market-actions { min-width: 0; width: 100%; }.market-suggestion button { width: 100%; }.market-status, .market-suggestion > small { grid-column: 1; }
   .result-panel { min-height: 600px; }.delay-readout strong { font-size: 110px; }
   .how-it-works { margin-bottom: 60px; }.how-it-works h2 { font-size: 38px; }
   .reference-grid { grid-template-columns: 1fr; }.reference-grid div:nth-child(n) { padding-left: 0; border-left: 0; }

diff --git a/html/index.html b/html/index.html
@@ -63,8 +63,11 @@
             <strong data-i18n="marketHeading">Find the cheapest fit</strong>
             <p data-i18n="marketIntro">Compares every valid Delay End setting for this programme.</p>
           </div>
-          <button id="suggest-market-window" type="button" data-i18n="suggest">Suggest window</button>
-          <p class="market-status" id="market-status" aria-live="polite" data-i18n="marketDefault">Fetched only when you ask. Market price excludes tax and supplier fees.</p>
+          <div class="market-actions" aria-label="Choose a price day" data-i18n-aria="marketDayLabel">
+            <button id="suggest-today" type="button" data-suggest-day="0" data-i18n="suggestToday">Suggest today</button>
+            <button id="suggest-tomorrow" type="button" data-suggest-day="1" data-i18n="suggestTomorrow">Suggest tomorrow</button>
+          </div>
+          <p class="market-status" id="market-status" aria-live="polite" data-i18n="marketDefault">The shown price is the raw wholesale market price, excluding all taxes, fees, supplier markups and other additions. Fetched only when you ask.</p>
           <small data-i18n-html="marketSource">Source: <a href="https://spot.utilitarian.io/developer/" rel="noreferrer">Utilitarian Spot</a> using <a href="https://transparency.entsoe.eu/" rel="noreferrer">ENTSO-E</a> data (CC BY 4.0).</small>
         </div>
 
@@ -145,6 +148,7 @@
       <div class="footer-copy">
         <span>Laundry Window</span>
         <p data-i18n="footerText">Made for one very specific Samsung—and one less piece of mental arithmetic.</p>
+        <a class="footer-repo" href="https://github.com/roelsroels/laundry-window" rel="noreferrer" data-i18n="githubRepo">View source on GitHub</a>
       </div>
       <div class="footer-support">
         <script type="text/javascript" src="https://cdnjs.buymeacoffee.com/1.0.0/button.prod.min.js" data-name="bmc-button" data-slug="roels" data-color="#40DCA5" data-emoji="🍺"  data-font="Bree" data-text="Buy me a beer" data-outline-color="#000000" data-font-color="#ffffff" data-coffee-color="#FFDD00" ></script>

diff --git a/README.md b/README.md
@@ -28,19 +28,21 @@ The calculator runs entirely in the browser. It has no analytics, cookies, serve
 - Per-programme measured-time overrides, stored only in the current browser
 - A preferred programme, initially **Dark garments**, stored only in the current browser
 - Complete English and Dutch interfaces, with the language stored only in the current browser
-- An optional live suggestion based on published Dutch day-ahead prices
+- Separate optional suggestions for today and tomorrow, once tomorrow’s prices are published
 - A closest-fit suggestion when no setting keeps the complete wash inside the window
 - A proportional timeline: green inside the cheap window and orange outside it
 
 ## Live market-price suggestions
 
-The **Suggest window** button downloads today’s—and tomorrow’s, once published—Netherlands day-ahead prices from [Utilitarian Spot](https://spot.utilitarian.io/developer/). Its values originate from the ENTSO-E Transparency Platform and are supplied in `€/MWh` at the market’s available resolution, currently 15 minutes for the Netherlands.
+The **Suggest today** and **Suggest tomorrow** buttons download Netherlands day-ahead prices from [Utilitarian Spot](https://spot.utilitarian.io/developer/). Tomorrow is offered as soon as both its prices and a valid 3–19 hour machine setting are available. The values originate from the ENTSO-E Transparency Platform and are supplied in `€/MWh` at the market’s available resolution, currently 15 minutes for the Netherlands.
 
-Laundry Window evaluates the real duration of the selected programme against every whole-hour Delay End choice from 3–19 hours. It recommends the complete cycle with the lowest duration-weighted average market price, then fills the manual window fields so the normal calculator remains the source of the displayed washer setting.
+Laundry Window evaluates the real duration of the selected programme against every whole-hour Delay End choice from 3–19 hours. It recommends the reachable cycle with the lowest duration-weighted average market price.
 
-Market prices remain aligned to their exact 15-minute intervals. The start/end fields filled by the suggestion are explicitly labelled as a **planning envelope**: the recommended wash time plus the selected safety margin. Refreshing “now” reruns the market optimisation so that this envelope cannot silently become stale.
+The green period remains separate from that machine-constrained recommendation. It is the longest contiguous low-price band for the chosen day, aligned to exact 15-minute intervals; its cutoff is `max(€5/MWh, the day’s minimum + €10/MWh)`. The start/end fields contain this actual band—not the proposed wash itself. If the best still-selectable wash extends beyond it, the timeline shows that portion in orange and reports the percentage that remains inside. This prevents a late request from making an already-missed cheap period look 100% reachable.
 
-The displayed figure is the wholesale market component, converted to cents per kWh. It excludes energy tax, VAT, supplier markups, and other contract costs. Fixed additions do not change which interval is cheapest, but users should still treat the result as a planning suggestion rather than an exact retail-price quote. The external feed is best-effort; manual entry remains available if it is late or unavailable.
+Refreshing “now” reruns the same day’s market optimisation so the washer setting cannot silently become stale.
+
+The displayed figure is the **raw wholesale market price** (Dutch: **kale beursprijs**), converted to cents per kWh. It excludes every addition, including energy tax, VAT, network or supplier fees, supplier markups, and other contract costs. Fixed additions do not change which interval is cheapest, but users should still treat the result as a planning suggestion rather than an exact retail-price quote. The external feed is best-effort; manual entry remains available if it is late or unavailable.
 
 ## Compatibility
 
